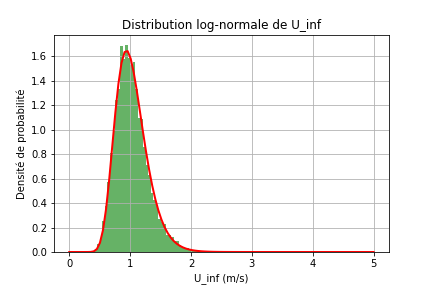
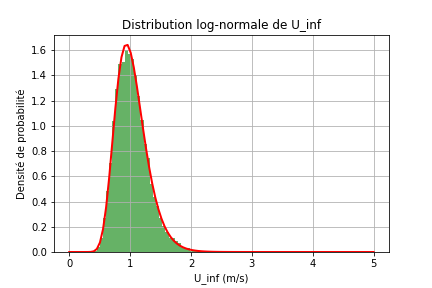
Prédiction

Changed region(s): [[0.0602, 0.1562, 0.9028, 0.875]]

diff --git a/Projet_Final/src/main.py b/Projet_Final/src/main.py
@@ -1,6 +1,7 @@
 import fonctions as f 
 import numpy as np 
 import matplotlib.pyplot as plt 
+from scipy.interpolate import interp1d
 
 from  MMS.graphique_convergence import  graphique_convergence_erreurs,erreur_L1,erreur_L2,erreur_Linf
 
@@ -181,8 +182,155 @@ def propagation():
     
     printres(Resultats_Cd,"Cd")
     printres(Resultats_Cl,"Cl")
+   
+def prediction():
+    
+    def calculate_GCI(p_g, frh, fh):
+        p = min(max(0.5, p_g), 4)  # Assure que p est dans l'intervalle [0.5, 4.0]
+        return (3 / (2**p - 1)) * abs(frh - fh)
+
+    prm = Parametres()
+    
+    errL1=[]
+    errL2=[]
+    errLinf=[]
+    nb_noeuds=30
+    nb_fin_noeuds=85
+    u_infs=[0.1*i for i in range(5,35,5)]
+    
+    Resultats_Cd,Resultats_Cl=[],[]
+    Resultats_fin_Cd,Resultats_fin_Cl=[],[]
+    
+    GCI_cd,GCI_cl=[],[]
+    
+    for u_inf in u_infs: 
+        prm.u_inf=u_inf
+        print("Calculating for u_inf = ", u_inf)
+        prm.nx = nb_noeuds
+        prm.ny = nb_noeuds
+
+        # on recalcule les caractéristiques de la situation avec la mdf 
+        r_mesh, theta_mesh, vecteur_psis = f.mdf(params=prm)
+        psi_mdf_mesh = f.arrange_mesh(vecteur_psis, prm.nx, prm.ny) # valeurs de psi calculées par mdf sur maillage 
+        vr, vtheta = f.vitesses(vecteur_psis, prm) 
+        vr_mesh, vtheta_mesh = f.arrange_mesh(vr, prm.nx, prm.ny), f.arrange_mesh(vtheta, prm.nx, prm.ny) 
+        
+        # Output des coefficients de pression, portance et trainée 
+        cp,cd,cl=f.compute_coefficients(vr_mesh, vtheta_mesh, prm)
+        Resultats_Cd.append(cd)
+        Resultats_Cl.append(cl)
+        
+        
+        
+        
+        fiter_noeud=[43,45,50]
+
+        cd_ana,cl_ana,cd_mesh,cl_mesh=[],[],[],[]
+        for noeud_intermed in fiter_noeud:
+            prm.nx = noeud_intermed
+            prm.ny = noeud_intermed
+            # on recalcule les caractéristiques de la situation avec la mdf 
+            r_mesh, theta_mesh, vecteur_psis = f.mdf(params=prm)
+            psi_mdf_mesh = f.arrange_mesh(vecteur_psis, prm.nx, prm.ny) # valeurs de psi calculées par mdf sur maillage 
+            vr, vtheta = f.vitesses(vecteur_psis, prm) 
+            vr_mesh, vtheta_mesh = f.arrange_mesh(vr, prm.nx, prm.ny), f.arrange_mesh(vtheta, prm.nx, prm.ny) 
+            vr_mesh_ref, vtheta_mesh_ref = f.vr_ref_mesh(prm), f.vtheta_ref_mesh(prm) # valeurs de vitesse analytique sur maillage 
+
+            
+            cp,Cd_mesh,Cl_mesh=f.compute_coefficients(vr_mesh, vtheta_mesh, prm)
+            cp,Cd_ana,Cl_ana=f.compute_coefficients(vr_mesh_ref, vtheta_mesh_ref, prm)
+            
+            cd_ana.append(Cd_ana)
+            cl_ana.append(Cl_ana)
+            cd_mesh.append(Cd_mesh)
+            cl_mesh.append(Cl_mesh)
+            
+        def f_err(tab1,tab2):
+                res=[]
+                for i in range(len(tab1)):
+                    res.append((abs((tab1[i]-tab2[i]))))
+                return res     
+        errCD=f_err(cd_ana,cd_mesh)
+        errCL=f_err(cl_ana,cl_mesh)
+
+        coeffCd = np.polyfit(np.log(fiter_noeud), np.log(errCD), 1)
+        ordreCd = coeffCd[0] 
+        coeffCl = np.polyfit(np.log(fiter_noeud), np.log(errCL), 1)
+        ordreCl = coeffCd[0] 
+        
+        ###Calcul maillage fin
+        
+        prm.nx = nb_fin_noeuds
+        prm.ny = nb_fin_noeuds
+
+        # on recalcule les caractéristiques de la situation avec la mdf 
+        r_mesh, theta_mesh, vecteur_psis = f.mdf(params=prm)
+        psi_mdf_mesh = f.arrange_mesh(vecteur_psis, prm.nx, prm.ny) # valeurs de psi calculées par mdf sur maillage 
+        vr, vtheta = f.vitesses(vecteur_psis, prm) 
+        vr_mesh, vtheta_mesh = f.arrange_mesh(vr, prm.nx, prm.ny), f.arrange_mesh(vtheta, prm.nx, prm.ny) 
+        
+        # Output des coefficients de pression, portance et trainée 
+        cp,cd,cl=f.compute_coefficients(vr_mesh, vtheta_mesh, prm)
+        Resultats_fin_Cd.append(cd)
+        Resultats_fin_Cl.append(cl)
+        
+        GCI_cd.append(calculate_GCI(ordreCd, cd, cd_mesh[1]))
+        GCI_cl.append(calculate_GCI(ordreCl, cl, cl_mesh[1]))
+            
+    
+    E_Cd = [abs(Resultats_fin_Cd-Resultats_Cd[i]) for i in range(len(u_infs))]
+    E_Cl = [abs(Resultats_fin_Cl-Resultats_Cl[i]) for i in range(len(u_infs))]
+    
+
+    # Définition des valeurs et de leurs incertitudes pour chaque cas
+    
+    #Unum1=5.2e-5
+    #Unum2=1.3e-4
+    
+
+    incertitudes_Cd = [2*GCI_cd[i] for i in range(len(u_infs))]
+    incertitudes_Cl = [2*GCI_cl[i] for i in range(len(u_infs))]
+    couleurs_Cd = ['blue' for i in range(len(u_infs))]
+    couleurs_Cl = ['red' for i in range(len(u_infs))]
+    
+    plt.figure(1)
+    # Création du graphique pour chaque cas
+    for i in range(len(u_infs)):
+        plt.errorbar(i + 1, E_Cd[i], yerr=incertitudes_Cd[i], fmt='o', capsize=5, color=couleurs_Cd[i], markersize=8)
+    # Ajout d'une ligne en pointillés à zéro
+    #plt.axhline(y=0, color='black', linestyle='--')
+
+    # Ajout des étiquettes pour chaque cas au niveau de l'axe des abscisses
+    plt.xticks([i for i in range(len(u_infs))], ["u_inf = "+str(u_infs[i]) for i in range(len(u_infs))])
+
+    # Ajout du titre et des labels d'axes
+    plt.title('Graphique avec incertitudes')
+    plt.xlabel('Situations')
+    plt.ylabel('Δ(deltamodele)')
+    plt.savefig('graphique_Cd_prédiction.png')
+    # Affichage du graphique
+    plt.show()
+    
+    plt.figure(2)
+    # Création du graphique pour chaque cas
+    for i in range(len(u_infs)):
+        plt.errorbar(i + 1, E_Cl[i], yerr=incertitudes_Cl[i], fmt='o', capsize=5, color=couleurs_Cl[i], markersize=8)
+    # Ajout d'une ligne en pointillés à zéro
+    #plt.axhline(y=0, color='black', linestyle='--')
+
+    # Ajout des étiquettes pour chaque cas au niveau de l'axe des abscisses
+    plt.xticks([i for i in range(len(u_infs))], ["u_inf = "+str(u_infs[i]) for i in range(len(u_infs))])
+
+    # Ajout du titre et des labels d'axes
+    plt.title('Graphique avec incertitudes')
+    plt.xlabel('Situations')
+    plt.ylabel('Δ(deltamodele)')
+    plt.savefig('graphique_Cd_prédiction.png')
+    # Affichage du graphique
+    plt.show()
     
 if __name__=="__main__": 
-    propagation()
+    #propagation()
     #main()
+    prediction()
     

diff --git a/Projet_Final/src/fonction-fiter_prediction.py b/Projet_Final/src/fonction-fiter_prediction.py
@@ -1,0 +1,57 @@
+import fonctions as f 
+import numpy as np 
+import matplotlib.pyplot as plt 
+from scipy.interpolate import interp1d
+
+from  MMS.graphique_convergence import  graphique_convergence_erreurs,erreur_L1,erreur_L2,erreur_Linf
+
+class Parametres():
+    u_inf = 1 
+    R = 1 
+    R_ext = 5 
+    
+    theta_min = 0 
+    theta_max = 2 * np.pi 
+
+    nx = 15
+    ny = 30
+
+#fonction fiter
+prm=Parametres()
+fiter_noeud=[20,22,24]
+
+cd_ana,cl_ana,cd_mesh,cl_mesh=[],[],[],[]
+for noeud_intermed in fiter_noeud:
+    prm.nx = noeud_intermed
+    prm.ny = noeud_intermed
+    # on recalcule les caractéristiques de la situation avec la mdf 
+    r_mesh, theta_mesh, vecteur_psis = f.mdf(params=prm)
+    psi_mdf_mesh = f.arrange_mesh(vecteur_psis, prm.nx, prm.ny) # valeurs de psi calculées par mdf sur maillage 
+    vr, vtheta = f.vitesses(vecteur_psis, prm) 
+    vr_mesh, vtheta_mesh = f.arrange_mesh(vr, prm.nx, prm.ny), f.arrange_mesh(vtheta, prm.nx, prm.ny) 
+    vr_mesh_ref, vtheta_mesh_ref = f.vr_ref_mesh(prm), f.vtheta_ref_mesh(prm) # valeurs de vitesse analytique sur maillage 
+
+    
+    cp,Cd_mesh,Cl_mesh=f.compute_coefficients(vr_mesh, vtheta_mesh, prm)
+    cp,Cd_ana,Cl_ana=f.compute_coefficients(vr_mesh_ref, vtheta_mesh_ref, prm)
+    
+    cd_ana.append(Cd_ana)
+    cl_ana.append(Cl_ana)
+    cd_mesh.append(Cd_mesh)
+    cl_mesh.append(Cl_mesh)
+    
+    
+def f_err(tab1,tab2):
+        res=[]
+        for i in range(len(tab1)):
+            res.append((abs((tab1[i]-tab2[i]))))
+        return res     
+errCD=f_err(cd_ana,cd_mesh)
+errCL=f_err(cl_ana,cl_mesh)
+
+coeffCd = np.polyfit(np.log(fiter_noeud), np.log(errCD), 1)
+ordreCd = coeffCd[0] 
+coeffCl = np.polyfit(np.log(fiter_noeud), np.log(errCL), 1)
+ordreCl = coeffCd[0] 
+
+print(ordreCl,ordreCd)

diff --git a/Projet_Final/src/traces_finaux.py b/Projet_Final/src/traces_finaux.py
@@ -1,0 +1,38 @@
+import matplotlib.pyplot as plt
+import numpy as np
+import math as math
+
+Exp=np.array([0.03014586398906757, -0.0008577538117113107])
+Sim=np.array([ 0.030402234656496253,-0.0020319872516330008])
+
+trace=[0.00025637066742868406,0.00025637066742868406,0.00117423343992169,0.00117423343992169]
+print(trace)
+
+# Définition des valeurs et de leurs incertitudes pour chaque cas
+valeurs = trace
+Unum1=5.2e-5
+Unum2=1.3e-4
+Ud=1e-4
+Uval1=(Ud**2+Unum1**2)**0.5
+Uval2=(Ud**2+Unum2**2)**0.5
+
+incertitudes = [4*Unum1, 4*Uval1, 4*Unum2,4*Uval2]
+couleurs = ['darkblue', 'blue', 'darkred','red']
+
+# Création du graphique pour chaque cas
+for i in range(4):
+    plt.errorbar(i + 1, valeurs[i], yerr=incertitudes[i], fmt='o', capsize=5, color=couleurs[i], markersize=8)
+
+# Ajout d'une ligne en pointillés à zéro
+plt.axhline(y=0, color='black', linestyle='--')
+
+# Ajout des étiquettes pour chaque cas au niveau de l'axe des abscisses
+plt.xticks([1, 2, 3, 4], ['Cd sans Ud', 'Cd avec Ud', 'Cl sans Ud', 'Cd avec Ud'])
+
+# Ajout du titre et des labels d'axes
+plt.title('Graphique avec incertitudes')
+plt.xlabel('Situations')
+plt.ylabel('Δ(deltamodele)')
+plt.savefig('graphique_final.png')
+# Affichage du graphique
+plt.show()

diff --git a/Projet_Final/src/propagation_incertitudes.py b/Projet_Final/src/propagation_incertitudes.py
@@ -39,7 +39,7 @@ plt.savefig("Histograme")
 plt.show()
 
 
-p_mont=monte_carlo_uniform(25)
+p_mont=monte_carlo_uniform(100)
 
 # Transformer les échantillons uniformes en échantillons log-normaux
 echantillons = stats.lognorm.ppf(p_mont, ecart_type, np.exp(moyenne))
